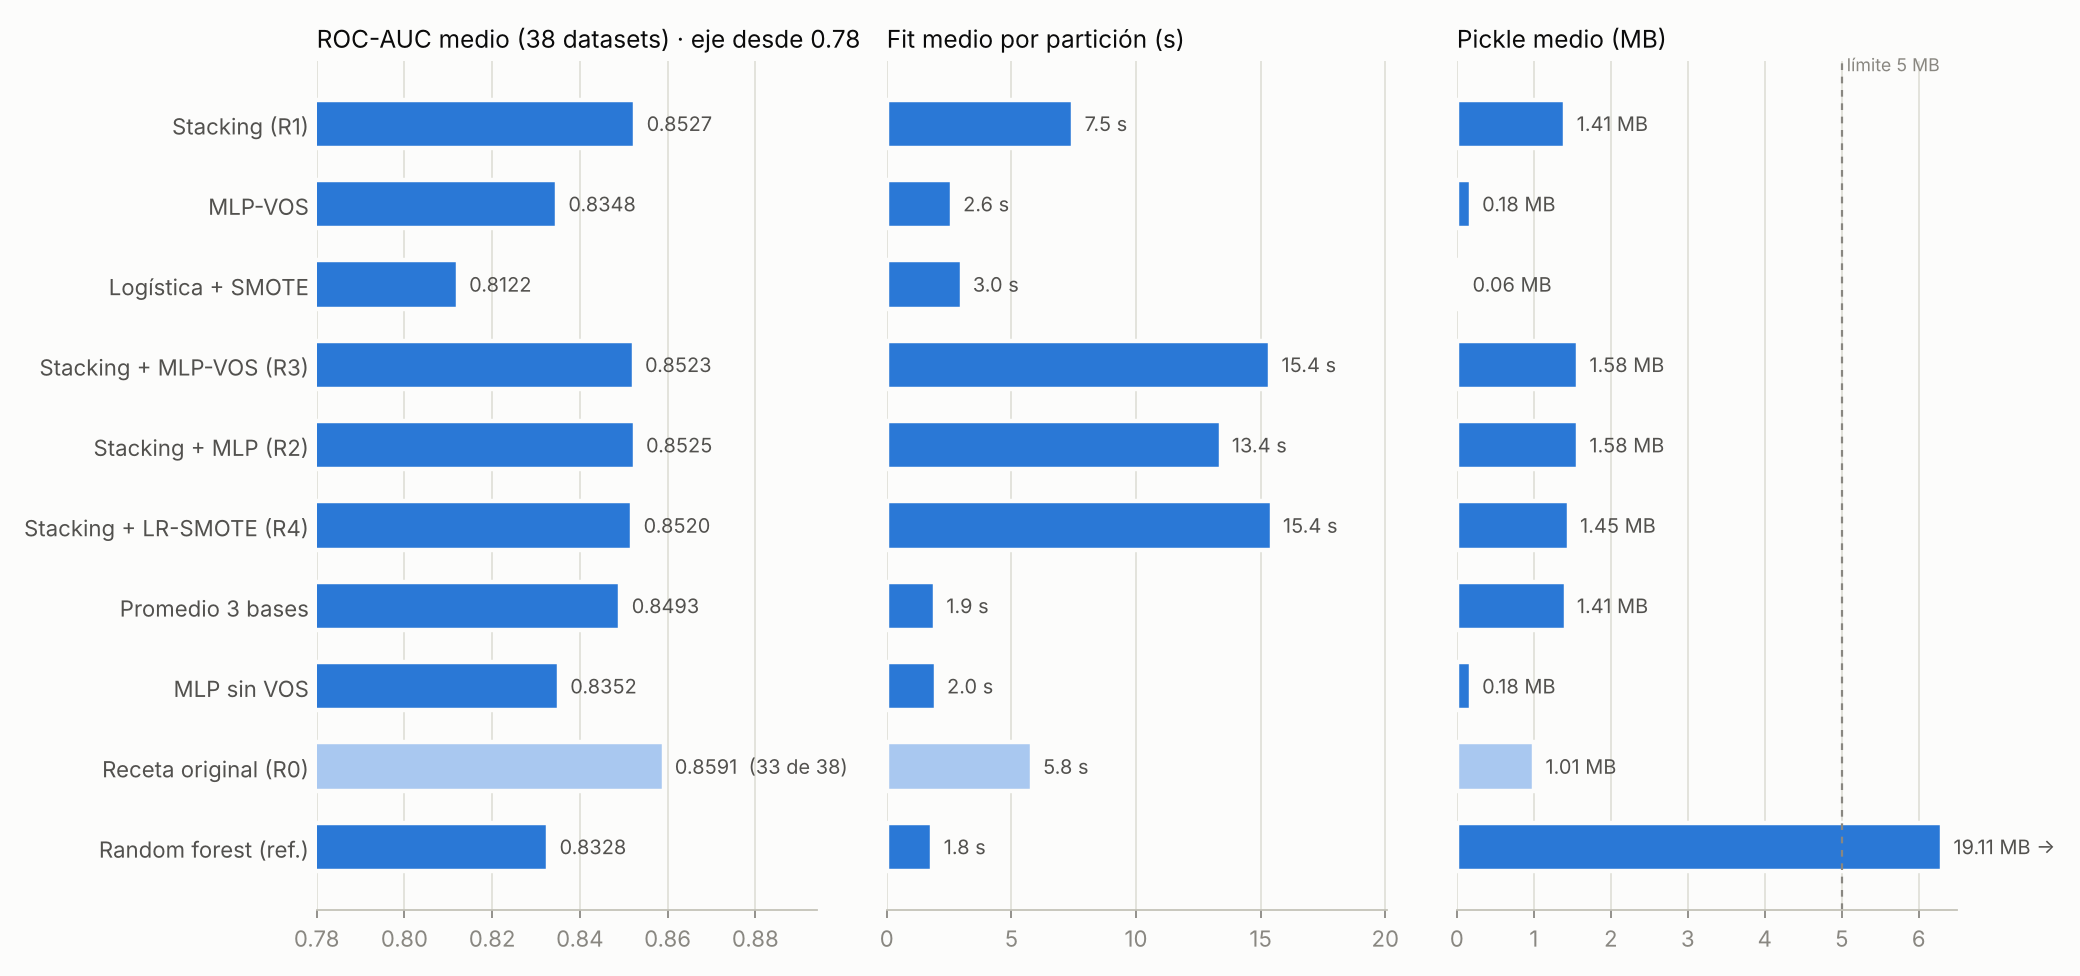
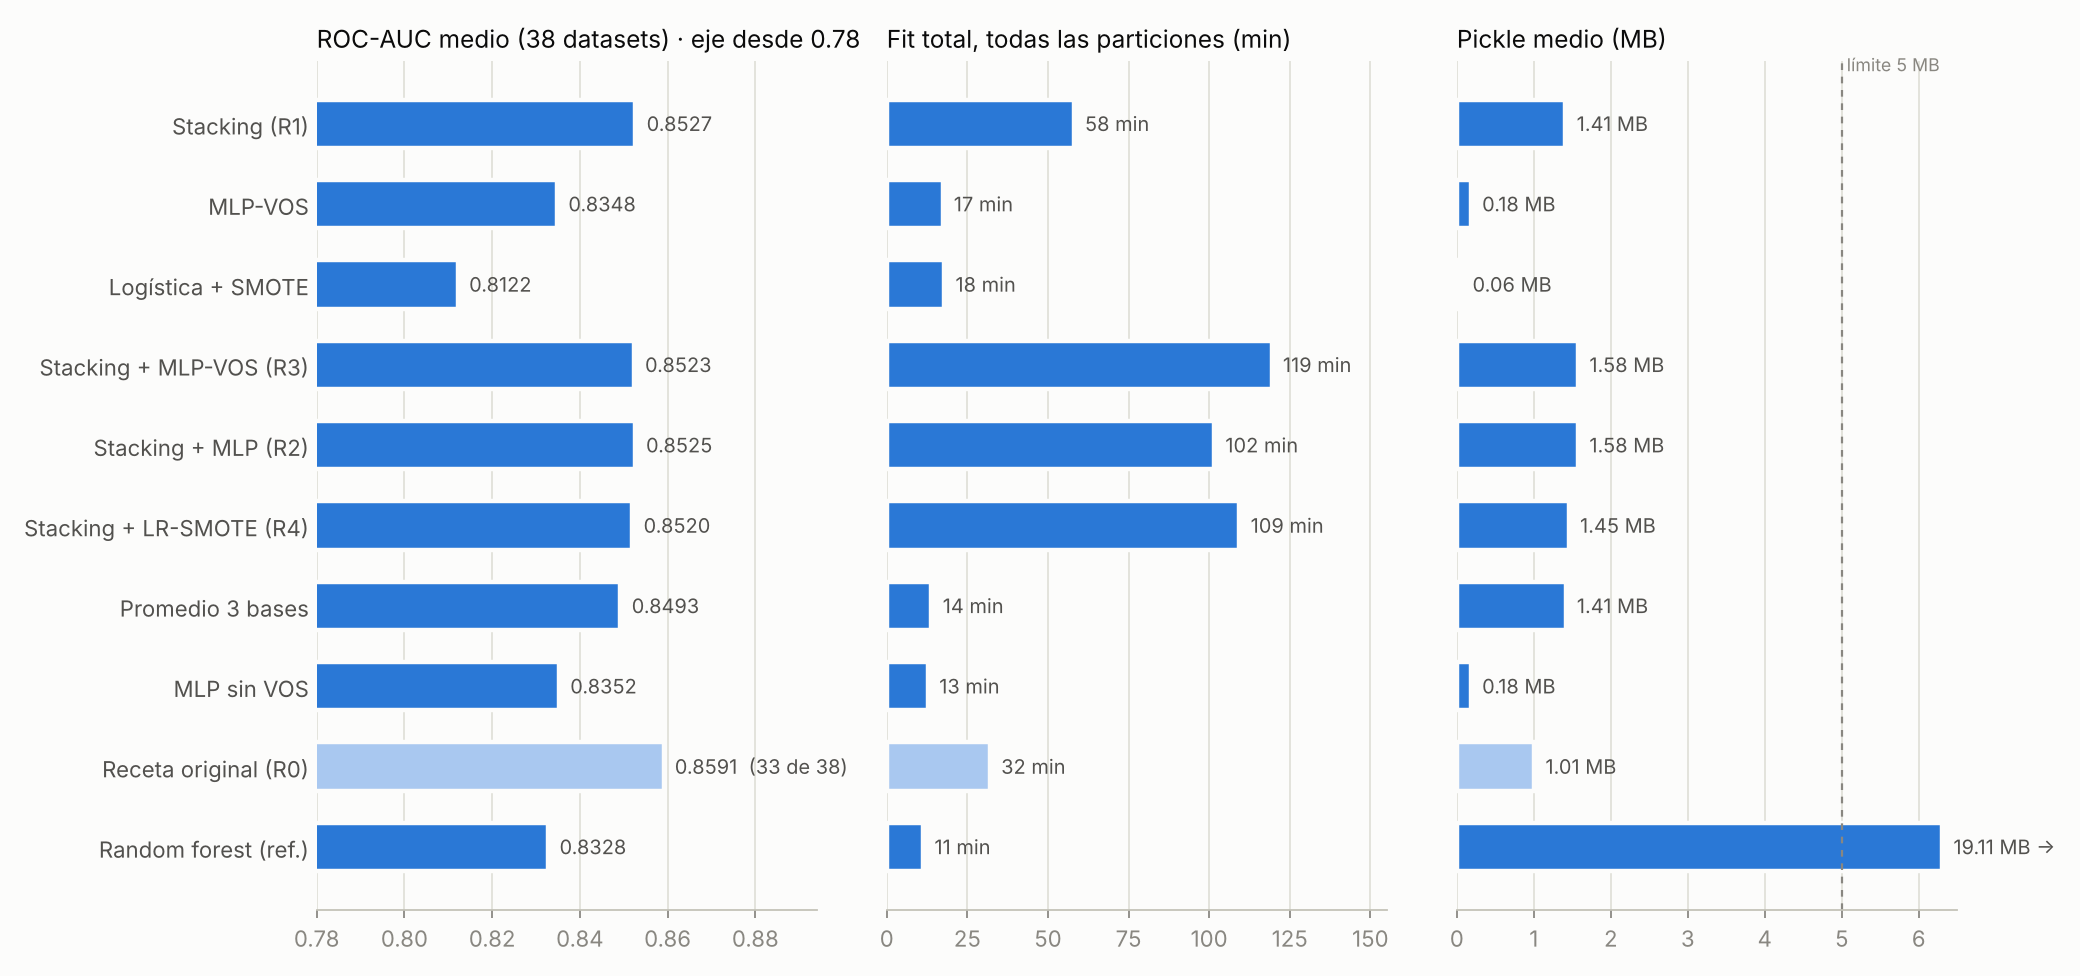
Fit por receta como total en vez de promedio
- summary.md, por_receta.csv, resumen_recetas.png y README: fit total = suma del fit de todas las particiones
- Se recalcula desde results/raw, sin volver a correr nada; las tablas por dataset siguen con el promedio

Claude-Session: https://claude.ai/code/session_01KVZjfwfMtFZfbFc4CvTnoZ

diff --git a/bench/aggregate.py b/bench/aggregate.py
@@ -120,7 +120,7 @@ def bar_panels(plt, rec, variants, path, refs=(), suptitle=None):
     ink, ink2, muted, grid, base, surf, blue = INK, INK2, MUTED, GRID, BASE, SURF, BLUE
     labels = [LABEL.get(v, v) for v in variants]
     panels = [("auc", "ROC-AUC medio (38 datasets)", "{:.4f}", None),
-              ("fit_s", "Fit medio por partición (s)", "{:.1f} s", None),
+              ("fit_total_min", "Fit total, todas las particiones (min)", "{:.0f} min", None),
               ("pickle_mb", "Pickle medio (MB)", "{:.2f} MB", 5.0)]
     fig, axes = plt.subplots(1, 3, figsize=(13, 0.45 * len(variants) + 1.6), sharey=True)
     for ax, (col, title, f, limit) in zip(axes, panels):
@@ -303,7 +303,9 @@ def main():
         "auc_multi": auc.loc[auc.index.intersection(multi)].mean(),
         "logloss_multi": ll.loc[ll.index.intersection(multi)].mean(),
         "rank_auc": ranks.mean(), "wins_auc": (ranks == 1).sum(),
-        "fit_s": pdd.groupby("variant").fit_s.mean(), "fit_max": pdd.groupby("variant").fit_max.max(),
+        # Fit total = suma del tiempo de fit de todas las particiones que terminaron (lo que tarda correr la receta en
+        # todo el benchmark); las que fallaron no suman.
+        "fit_total_min": df[df.error.isna()].groupby("variant").fit_s.sum() / 60, "fit_max": pdd.groupby("variant").fit_max.max(),
         "pickle_mb": pdd.groupby("variant").pickle_mb.mean(), "pickle_max": pdd.groupby("variant").pickle_max.max(),
         "errors": pdd.groupby("variant").errors.sum(),
     }).loc[variants]
@@ -330,14 +332,16 @@ def main():
     L.append("## Promedio por receta\n")
     L.append("\"Datasets\" = datasets con resultado; si una receta falla en alguno, sus promedios son sobre los que sí "
              "terminó (ver Errores), así que no son directamente comparables con los de 38.\n")
+    L.append("\"Fit total\" = suma del tiempo de fit de todas las particiones que terminaron (lo que tarda la receta en "
+             "todo el benchmark, sin contar predicción ni carga de datos); \"Fit máx.\" = la partición más lenta.\n")
     L.append(f"La columna \"AUC {len(common)} comunes\" promedia solo los datasets donde todas las recetas terminaron, "
              "para comparar en igualdad de condiciones.\n")
     L.append(f"| Receta | Datasets | ROC-AUC medio | AUC {len(common)} comunes | AUC binarios | AUC multiclase | Log-loss multiclase | Rango medio (AUC) | "
-             "Gana | Fit medio | Fit máx. | Pickle medio | Pickle máx. | Errores |")
+             "Gana | Fit total | Fit máx. | Pickle medio | Pickle máx. | Errores |")
     L.append("|---|---|---|---|---|---|---|---|---|---|---|---|---|---|")
     for v, r in rec.iterrows():
         L.append(f"| {LABEL.get(v, v)} | {int(r.datasets)} | **{r.auc:.4f}** | {r.auc_comunes:.4f} | {r.auc_bin:.4f} | {r.auc_multi:.4f} | "
-                 f"{r.logloss_multi:.4f} | {r.rank_auc:.2f} | {int(r.wins_auc)} | {r.fit_s:.1f} s | {r.fit_max:.1f} s | "
+                 f"{r.logloss_multi:.4f} | {r.rank_auc:.2f} | {int(r.wins_auc)} | {r.fit_total_min:.1f} min | {r.fit_max:.1f} s | "
                  f"{r.pickle_mb:.2f} MB | {r.pickle_max:.2f} MB | {int(r.errors)} |")
     if "elo_auc" in rec:
         L.append("\n## Elo (Bradley-Terry por dataset, RF = 1000, IC 95 % por bootstrap)\n")

diff --git a/results/summary.md b/results/summary.md
@@ -6,20 +6,22 @@ Datasets: 38 (30 binarios, 8 multiclase). Métricas por dataset = promedio sobre
 
 "Datasets" = datasets con resultado; si una receta falla en alguno, sus promedios son sobre los que sí terminó (ver Errores), así que no son directamente comparables con los de 38.
 
+"Fit total" = suma del tiempo de fit de todas las particiones que terminaron (lo que tarda la receta en todo el benchmark, sin contar predicción ni carga de datos); "Fit máx." = la partición más lenta.
+
 La columna "AUC 33 comunes" promedia solo los datasets donde todas las recetas terminaron, para comparar en igualdad de condiciones.
 
-| Receta | Datasets | ROC-AUC medio | AUC 33 comunes | AUC binarios | AUC multiclase | Log-loss multiclase | Rango medio (AUC) | Gana | Fit medio | Fit máx. | Pickle medio | Pickle máx. | Errores |
+| Receta | Datasets | ROC-AUC medio | AUC 33 comunes | AUC binarios | AUC multiclase | Log-loss multiclase | Rango medio (AUC) | Gana | Fit total | Fit máx. | Pickle medio | Pickle máx. | Errores |
 |---|---|---|---|---|---|---|---|---|---|---|---|---|---|
-| Stacking (R1) | 38 | **0.8527** | 0.8630 | 0.8420 | 0.8924 | 0.2731 | 3.47 | 3 | 7.5 s | 67.1 s | 1.41 MB | 4.21 MB | 0 |
-| MLP-VOS | 38 | **0.8348** | 0.8474 | 0.8247 | 0.8729 | 0.3287 | 7.53 | 0 | 2.6 s | 33.4 s | 0.18 MB | 0.88 MB | 0 |
-| Logística + SMOTE | 38 | **0.8122** | 0.8236 | 0.8013 | 0.8531 | 0.4318 | 8.92 | 1 | 3.0 s | 56.6 s | 0.06 MB | 0.72 MB | 0 |
-| Stacking + MLP-VOS (R3) | 38 | **0.8523** | 0.8626 | 0.8430 | 0.8873 | 0.2793 | 3.03 | 7 | 15.4 s | 91.4 s | 1.58 MB | 4.35 MB | 0 |
-| Stacking + MLP (R2) | 38 | **0.8525** | 0.8627 | 0.8431 | 0.8880 | 0.2795 | 2.84 | 9 | 13.4 s | 87.4 s | 1.58 MB | 4.35 MB | 0 |
-| Stacking + LR-SMOTE (R4) | 38 | **0.8520** | 0.8622 | 0.8418 | 0.8901 | 0.2772 | 3.76 | 4 | 15.4 s | 145.9 s | 1.45 MB | 4.50 MB | 0 |
-| Promedio 3 bases | 38 | **0.8493** | 0.8598 | 0.8390 | 0.8876 | 0.3202 | 4.95 | 8 | 1.9 s | 13.9 s | 1.41 MB | 4.21 MB | 0 |
-| MLP sin VOS | 38 | **0.8352** | 0.8476 | 0.8251 | 0.8735 | 0.3286 | 7.50 | 0 | 2.0 s | 29.7 s | 0.18 MB | 0.88 MB | 0 |
-| Receta original (R0) | 33 | **0.8591** | 0.8591 | 0.8487 | 0.8915 | 0.2927 | 5.12 | 2 | 5.8 s | 64.0 s | 1.01 MB | 3.30 MB | 66 |
-| Random forest (ref.) | 38 | **0.8328** | 0.8455 | 0.8186 | 0.8862 | 0.4412 | 7.24 | 4 | 1.8 s | 26.1 s | 19.11 MB | 106.33 MB | 0 |
+| Stacking (R1) | 38 | **0.8527** | 0.8630 | 0.8420 | 0.8924 | 0.2731 | 3.47 | 3 | 58.0 min | 67.1 s | 1.41 MB | 4.21 MB | 0 |
+| MLP-VOS | 38 | **0.8348** | 0.8474 | 0.8247 | 0.8729 | 0.3287 | 7.53 | 0 | 17.3 min | 33.4 s | 0.18 MB | 0.88 MB | 0 |
+| Logística + SMOTE | 38 | **0.8122** | 0.8236 | 0.8013 | 0.8531 | 0.4318 | 8.92 | 1 | 17.8 min | 56.6 s | 0.06 MB | 0.72 MB | 0 |
+| Stacking + MLP-VOS (R3) | 38 | **0.8523** | 0.8626 | 0.8430 | 0.8873 | 0.2793 | 3.03 | 7 | 119.4 min | 91.4 s | 1.58 MB | 4.35 MB | 0 |
+| Stacking + MLP (R2) | 38 | **0.8525** | 0.8627 | 0.8431 | 0.8880 | 0.2795 | 2.84 | 9 | 101.5 min | 87.4 s | 1.58 MB | 4.35 MB | 0 |
+| Stacking + LR-SMOTE (R4) | 38 | **0.8520** | 0.8622 | 0.8418 | 0.8901 | 0.2772 | 3.76 | 4 | 109.4 min | 145.9 s | 1.45 MB | 4.50 MB | 0 |
+| Promedio 3 bases | 38 | **0.8493** | 0.8598 | 0.8390 | 0.8876 | 0.3202 | 4.95 | 8 | 13.9 min | 13.9 s | 1.41 MB | 4.21 MB | 0 |
+| MLP sin VOS | 38 | **0.8352** | 0.8476 | 0.8251 | 0.8735 | 0.3286 | 7.50 | 0 | 12.8 min | 29.7 s | 0.18 MB | 0.88 MB | 0 |
+| Receta original (R0) | 33 | **0.8591** | 0.8591 | 0.8487 | 0.8915 | 0.2927 | 5.12 | 2 | 32.0 min | 64.0 s | 1.01 MB | 3.30 MB | 66 |
+| Random forest (ref.) | 38 | **0.8328** | 0.8455 | 0.8186 | 0.8862 | 0.4412 | 7.24 | 4 | 11.3 min | 26.1 s | 19.11 MB | 106.33 MB | 0 |
 
 ## Elo (Bradley-Terry por dataset, RF = 1000, IC 95 % por bootstrap)
 

diff --git a/README.md b/README.md
@@ -17,18 +17,21 @@ datos crudos por partición en `results/raw/`.
 
 ![Promedios por receta](results/resumen_recetas.png)
 
-| Receta | ROC-AUC medio | Fit medio | Fit máx. | Pickle medio | Pickle máx. | Errores |
+| Receta | ROC-AUC medio | Fit total | Fit máx. | Pickle medio | Pickle máx. | Errores |
 |---|---|---|---|---|---|---|
-| **Stacking (R1)** | **0.8527** | 7.5 s | 67.1 s | 1.41 MB | 4.21 MB | 0 |
-| MLP-VOS | 0.8348 | 2.6 s | 33.4 s | 0.18 MB | 0.88 MB | 0 |
-| Logística + SMOTE | 0.8122 | 3.0 s | 56.6 s | 0.06 MB | 0.72 MB | 0 |
-| Stacking + MLP-VOS (R3) | 0.8523 | 15.4 s | 91.4 s | 1.58 MB | 4.35 MB | 0 |
-| Stacking + MLP sin VOS (R2) | 0.8525 | 13.4 s | 87.4 s | 1.58 MB | 4.35 MB | 0 |
-| Stacking + LR-SMOTE (R4, demostrativa) | 0.8520 | 15.4 s | 145.9 s | 1.45 MB | 4.50 MB | 0 |
-| Promedio simple de las 3 bases | 0.8493 | 1.9 s | 13.9 s | 1.41 MB | 4.21 MB | 0 |
-| MLP sin VOS | 0.8352 | 2.0 s | 29.7 s | 0.18 MB | 0.88 MB | 0 |
-| Receta original (R0, referencia) | 0.8591 en 33 datasets* | 5.8 s | 64.0 s | 1.01 MB | 3.30 MB | 66 particiones (5 datasets) |
-| Random forest por defecto (referencia) | 0.8328 | 1.8 s | 26.1 s | 19.11 MB | 106.33 MB | 0 |
+| **Stacking (R1)** | **0.8527** | 58 min | 67.1 s | 1.41 MB | 4.21 MB | 0 |
+| MLP-VOS | 0.8348 | 17 min | 33.4 s | 0.18 MB | 0.88 MB | 0 |
+| Logística + SMOTE | 0.8122 | 18 min | 56.6 s | 0.06 MB | 0.72 MB | 0 |
+| Stacking + MLP-VOS (R3) | 0.8523 | 119 min | 91.4 s | 1.58 MB | 4.35 MB | 0 |
+| Stacking + MLP sin VOS (R2) | 0.8525 | 102 min | 87.4 s | 1.58 MB | 4.35 MB | 0 |
+| Stacking + LR-SMOTE (R4, demostrativa) | 0.8520 | 109 min | 145.9 s | 1.45 MB | 4.50 MB | 0 |
+| Promedio simple de las 3 bases | 0.8493 | 14 min | 13.9 s | 1.41 MB | 4.21 MB | 0 |
+| MLP sin VOS | 0.8352 | 13 min | 29.7 s | 0.18 MB | 0.88 MB | 0 |
+| Receta original (R0, referencia) | 0.8591 en 33 datasets* | 32 min (33 datasets) | 64.0 s | 1.01 MB | 3.30 MB | 66 particiones (5 datasets) |
+| Random forest por defecto (referencia) | 0.8328 | 11 min | 26.1 s | 19.11 MB | 106.33 MB | 0 |
+
+"Fit total" = suma del tiempo de fit de las 594 particiones (lo que tarda la receta en todo el benchmark, sin
+predicción ni carga de datos); "Fit máx." = la partición más lenta, que es la que importa para el límite de 5 min.
 
 \* La receta original falla con `window shape cannot be larger than input array shape` en Marketing_Campaign,
 seismic-bumps, coil2000_insurance_policies, in_vehicle_coupon_recommendation y bank-marketing; su promedio no es

diff --git a/BENCHMARK.md b/BENCHMARK.md
@@ -86,10 +86,10 @@ Genera en `results/`:
 
 | Archivo | Contenido |
 |---|---|
-| `summary.md` | Tabla principal (AUC media, fit medio y peor, pickle medio y peor, errores), Elo con IC bootstrap y comparaciones pareadas con IC 95 % |
+| `summary.md` | Tabla principal (AUC media, fit total y peor, pickle medio y peor, errores), Elo con IC bootstrap y comparaciones pareadas con IC 95 % |
 | `por_dataset.csv` | Por receta y dataset: ROC-AUC, tamaño de pickle y tiempo de fit (promedio de sus particiones) |
-| `por_receta.csv` | El promedio de esas tres métricas por receta |
-| `resumen_recetas.png` | Gráfica de AUC, fit y pickle por receta |
+| `por_receta.csv` | Por receta: ROC-AUC medio, fit total (suma de todas las particiones), fit máximo y pickle medio |
+| `resumen_recetas.png` | Gráfica de AUC medio, fit total y pickle medio por receta |
 | `auc_por_dataset.png` | AUC por dataset y receta: la mejor de cada dataset en negritas con recuadro; entre más fuerte el azul, más cerca de la mejor |
 | `nuevas_recetas.png` | **Aparte:** AUC, fit y pickle de kNN y ExtraTrees (azul) frente a R1, LR-SMOTE y RF (gris) |
 | `efecto_smote_y_pesos.png` | **Aparte:** diferencia de ROC-AUC por dataset de KNN-SMOTE − KNN y ET-BAL − ET, con media, IC 95 % y gana–pierde |
